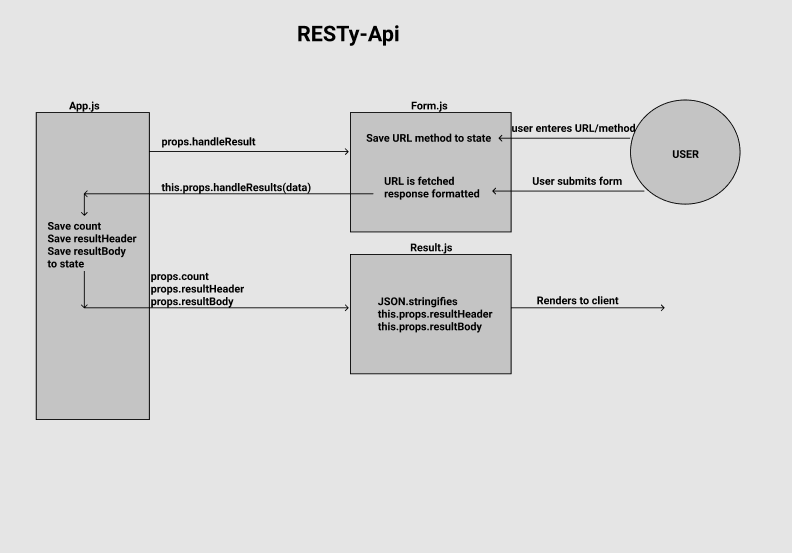
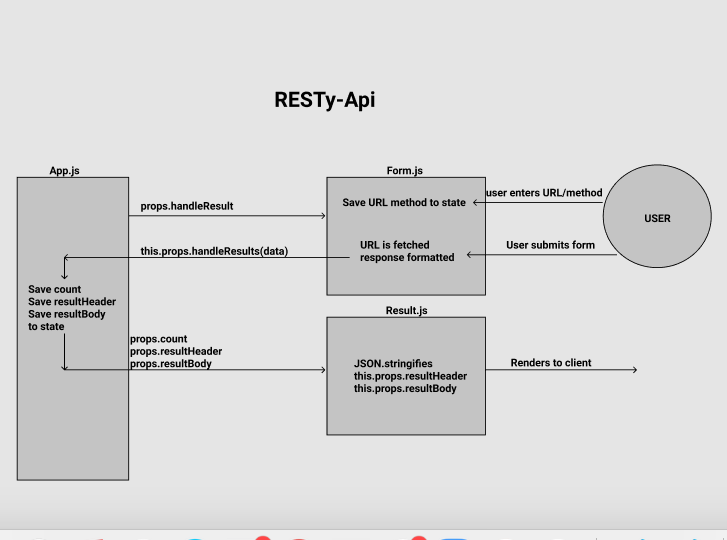
added new uml without typo and added overview desc

diff --git a/README.md b/README.md
@@ -2,13 +2,13 @@
 
 #### Author: Riva Davidowski
 
-### Project Overview:
+### Project Overview: A create-react-website that displays results from API call
 
 **Phase 1:** My goal is to setup the basic scaffolding of the application, with intent being to add more functionality to the system as I go. This initial build sets up the file structure so that I can progressively build this application in a scalable manner.**
 
 This first phase involves entering the URL to a REST API and selecting the REST method to use to access it. Providing a visual confirmation that  entries and selections are valid is another goal so I know that the application will be able to fetch the API data that I’ve requested.
 
-**Phase 2:** In phase 2, I connect RESTy-api to live APIs, fetching and displaying remote data. The primary focus will be to service GET requests. Deploying the application to GitHub pages using a GitHub action which will publish the “build” to the gh-pages branch of your repository on all check-ins is the last part of phase 2.
+**Phase 2:** In phase 2, I connect RESTy-api to live APIs, fetching and displaying remote data. The primary focus will be to service GET requests. Deploying the application to GitHub pages using a GitHub action which will publish the “build” to the gh-pages branch of my repository on all check-ins is the last part of phase 2.
 
 **Phase 3:** In this phase of the RESTy build, I add some more fidelity to the application, including a menu, history, and an “in-progress” spinner. In this phase, I can use all REST methods so that I can do more than just get data and see a “loading” indicator while RESTy is fetching data so that I know it’s working on my request.
 
@@ -56,4 +56,4 @@ See the section about [running tests](https://facebook.github.io/create-react-ap
 
 #### UML:
 
-![uml](resty-uml.png)
+![uml](RESTy-uml.png)
